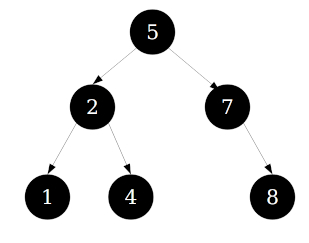
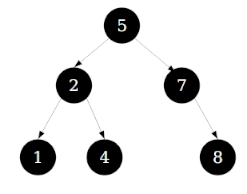
updates

diff --git a/notes/rb-tree.rst b/notes/rb-tree.rst
@@ -1,4 +1,5 @@
 .. include:: <isonum.txt>
+.. include:: <isopub.txt>
 
 Red Black Trees (under develpment)
 ==================================
@@ -42,10 +43,13 @@ Below is an examples of an invalid red-black trees:
    :alt: Exaple of red-balck tree
 
 The path from the root to the left null child of node 7 passes through two black nodes, whereas the path to all other null children passes through three black nodes. This violates the fourth invariant above.
+Changing the color of two nodes as below will satisfy the fourth invariant:
 
-Red-black trees actually represent the structure of 2-3-4 trees in a different way. 
+.. figure:: ../images/rb-corrected-1.jpg
+   :alt: Exaple of red-balck tree
 
-.. todo:: I shorted the text taken from the slides. They use the word 'isometry' without defining it.
+Red-black trees actually represent the structure of 2-3-4 trees in a different way. And recall 2-3-4 trees remained balanced after an insertion or deletion. They therefore save memory compared to 2-3-4 tree. Another
+cruical advantage of red-black trees involves their insertion and deletion algorithms: the node transformations necessary to maintain a valid red-black (when inserting or deleting a key) are local transformations.
 
 Starting at slide #220, the equivalent 2-3-4 tree insert algorithm is for ashown for an insertion into a red black tree.
 
